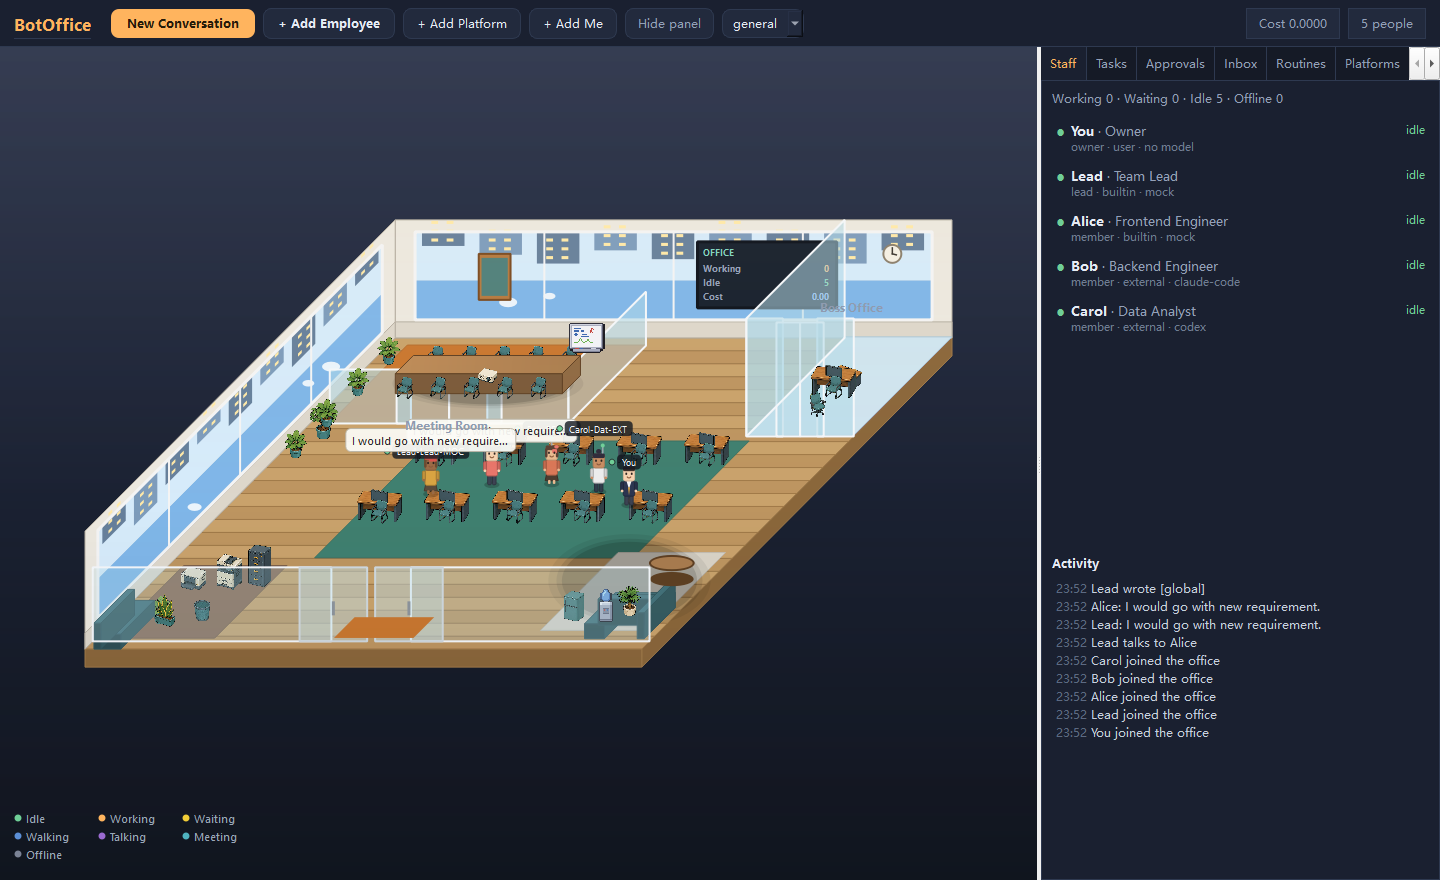
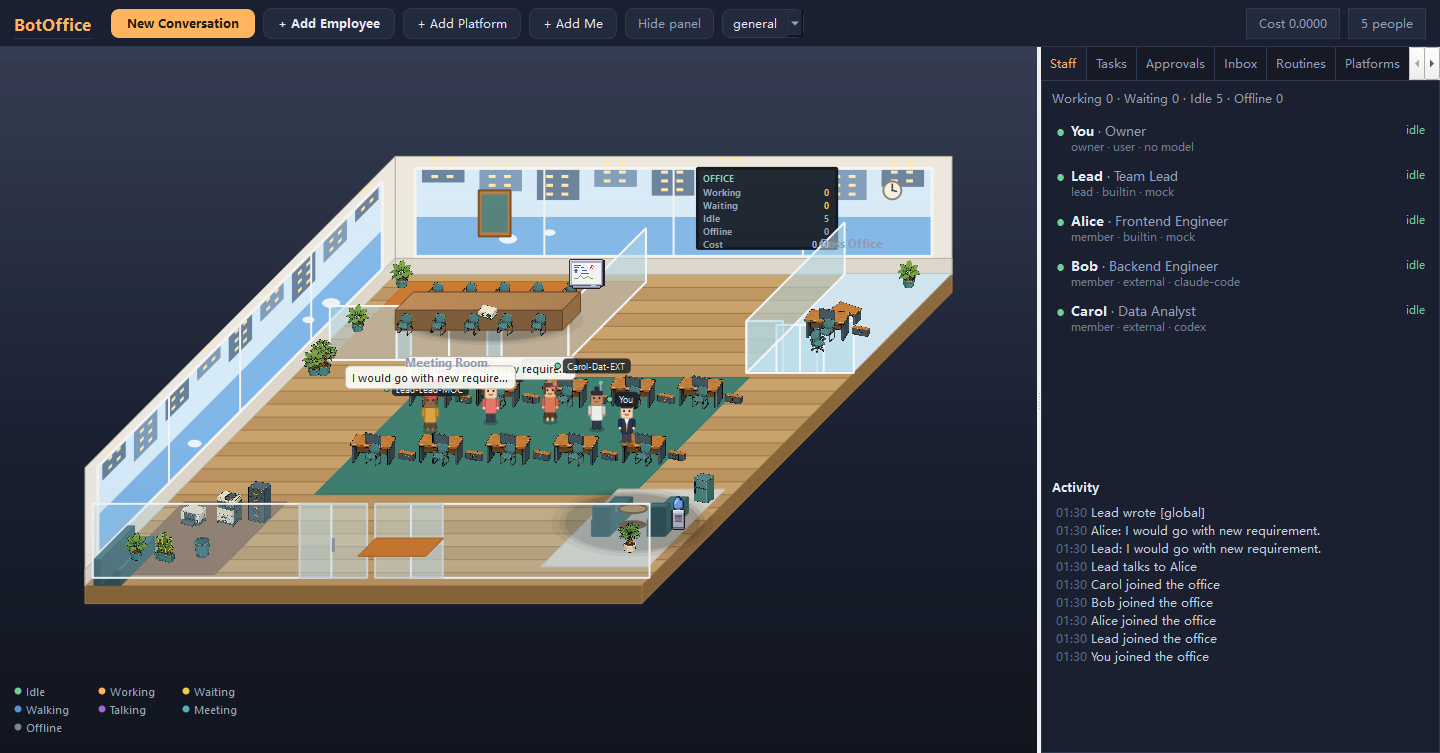
Keep the wall board in step with the staff panel and fix the layout
The board only refreshed on a status poll, so it disagreed with the staff
panel the moment an agent changed state. It now recomputes from the scene on
every state change, and shows waiting and offline as well.

Layout fixes from the review: chairs seat lower with a filing cabinet beside
every desk, the boss office glass returns to the height used everywhere else,
the pantry gets facing booth seats with a fridge and cooler against the wall,
the entrance mat no longer sits on the glass, and the plants are spaced
along the back wall.

diff --git a/botoffice/gui/scene.py b/botoffice/gui/scene.py
@@ -551,9 +551,11 @@ class OfficeScene:
         self._sprite(painter, "plant_snake", x0 + 3.0, z1 - 1.6, 1.2)
         self._draw_picture(painter, "z", x0 + 4.2, x0 + 5.8, z0)
 
-        # Plants in a row along the left wall, spaced out.
-        for index in range(4):
-            self._draw_plant(painter, x0 + 1.1, z0 + 2.2 + index * 2.4)
+        # Plants along the back wall and in the corners, spaced out.
+        for offset in (0.0, 3.4, 6.8):
+            self._draw_plant(painter, x0 + 1.1, z0 + 1.2 + offset)
+        self._draw_plant(painter, x1 - 1.4, z0 + 1.2)
+        self._draw_plant(painter, x0 + 1.4, z1 - 1.8)
 
     def _draw_meeting_room(self, painter: QPainter, zone: dict) -> None:
         """A long table with five chairs down each side, behind glass walls."""
@@ -631,8 +633,8 @@ class OfficeScene:
 
         # Mat on the floor.
         painter.setBrush(QBrush(QColor("#c9772f")))
-        painter.setPen(Qt.NoPen)
-        painter.drawPolygon(self._quad(ex - 2.0, ez - 1.8, 4.0, 1.6, 0.8))
+        painter.setPen(QPen(QColor("#a05f22"), 1))
+        painter.drawPolygon(self._quad(ex - 1.7, ez - 3.0, 3.4, 1.4, 0.8))
 
     # ------------------------------------------------------------ geometry
 
@@ -787,9 +789,11 @@ class OfficeScene:
         self._sprite(painter, "plant_snake", x0 + 3.0, z1 - 1.6, 1.2)
         self._draw_picture(painter, "z", x0 + 4.2, x0 + 5.8, z0)
 
-        # Plants in a row along the left wall, spaced out.
-        for index in range(4):
-            self._draw_plant(painter, x0 + 1.1, z0 + 2.2 + index * 2.4)
+        # Plants along the back wall and in the corners, spaced out.
+        for offset in (0.0, 3.4, 6.8):
+            self._draw_plant(painter, x0 + 1.1, z0 + 1.2 + offset)
+        self._draw_plant(painter, x1 - 1.4, z0 + 1.2)
+        self._draw_plant(painter, x0 + 1.4, z1 - 1.8)
 
     def _draw_meeting_room(self, painter: QPainter, zone: dict) -> None:
         """A long table with five chairs down each side, behind glass walls."""
@@ -953,7 +957,7 @@ class OfficeScene:
     def _draw_digital_board(self, painter: QPainter, wall: str, a: float, b: float,
                             coord: float) -> None:
         """A wall screen showing the office numbers."""
-        panel = self._wall_quad(wall, a, b, coord, 30, 96)
+        panel = self._wall_quad(wall, a, b, coord, 26, 106)
         painter.setBrush(QBrush(QColor("#161f2c")))
         painter.setPen(QPen(QColor("#0c121b"), 3))
         painter.drawPolygon(panel)
@@ -971,10 +975,12 @@ class OfficeScene:
                          Qt.AlignLeft | Qt.AlignVCenter, "OFFICE")
         rows = (
             ("Working", str(self.stats.get("working", 0)), QColor("#ffb45e")),
+            ("Waiting", str(self.stats.get("waiting", 0)), QColor("#f2cd37")),
             ("Idle", str(self.stats.get("idle", 0)), QColor("#6fcf97")),
+            ("Offline", str(self.stats.get("offline", 0)), QColor("#93a0b8")),
             ("Cost", f"{self.stats.get('cost', 0):.2f}", QColor("#8ab4f8")),
         )
-        y = rect.top() + 20
+        y = rect.top() + 18
         for label, value, color in rows:
             painter.setPen(QPen(QColor("#93a0b8")))
             painter.drawText(QRectF(rect.left() + 6, y, rect.width() * 0.6, 12),
@@ -983,7 +989,7 @@ class OfficeScene:
             painter.drawText(QRectF(rect.left() + rect.width() * 0.5, y,
                                     rect.width() * 0.45, 12),
                              Qt.AlignRight | Qt.AlignVCenter, value)
-            y += 14
+            y += 13
         painter.restore()
 
     def _draw_poster(self, painter: QPainter, wall: str, a: float, b: float,
@@ -1094,25 +1100,27 @@ class OfficeScene:
     # ----------------------------------------------------------- furniture
 
     def _draw_kitchen(self, painter: QPainter, x: float, z: float) -> None:
-        """The pantry: an L-shaped sofa, a round table, fridge and cooler."""
-        self._shadow(painter, x + 1.6, z + 1.6, 3.4, 3.0)
-        self._box(painter, x + 2.2, z + 3.6, 3.0, 1.0, 15, SOFA, SOFA_DARK)
-        self._box(painter, x + 2.2, z + 3.6, 1.0, 2.4, 15, SOFA, SOFA_DARK)
-        self._box(painter, x + 2.2, z + 4.6, 3.0, 0.35, 26, SOFA, SOFA_DARK)
-        self._box(painter, x + 4.85, z + 3.6, 0.35, 2.4, 26, SOFA, SOFA_DARK)
+        """The pantry: two facing booth seats with a table between them."""
+        self._shadow(painter, x + 2.0, z + 2.0, 3.4, 2.2)
+        # Booth seats facing each other across the table.
+        self._box(painter, x + 0.6, z + 1.2, 0.9, 1.8, 16, SOFA, SOFA_DARK)
+        self._box(painter, x + 0.6, z + 2.6, 0.9, 0.3, 28, SOFA, SOFA_DARK)
+        self._box(painter, x + 3.4, z + 1.2, 0.9, 1.8, 16, SOFA, SOFA_DARK)
+        self._box(painter, x + 3.4, z + 2.6, 0.9, 0.3, 28, SOFA, SOFA_DARK)
 
-        # Round table in the middle of the sofa corner.
-        centre = self.to_screen(x + 3.6, z + 1.4, 16)
+        # Round table in the middle of the booth.
+        centre = self.to_screen(x + 2.1, z + 2.1, 16)
         painter.setBrush(QBrush(DESK_LEG))
         painter.setPen(Qt.NoPen)
         painter.drawEllipse(QPointF(centre.x(), centre.y() + 16),
-                            1.1 * self.tile_w, 0.55 * self.tile_h)
+                            0.7 * self.tile_w, 0.35 * self.tile_h)
         painter.setBrush(QBrush(TABLE))
         painter.setPen(QPen(DESK_LEG, 2))
-        painter.drawEllipse(centre, 1.1 * self.tile_w, 0.55 * self.tile_h)
+        painter.drawEllipse(centre, 0.7 * self.tile_w, 0.35 * self.tile_h)
 
-        self._sprite(painter, "fridge", x + 0.9, z + 4.8, 1.2)
-        self._sprite(painter, "cooler", x + 2.5, z + 4.8, 0.9)
+        # Fridge and cooler against the far wall.
+        self._sprite(painter, "fridge", x + 4.7, z + 0.6, 1.2)
+        self._sprite(painter, "cooler", x + 4.7, z + 2.6, 0.9)
 
     def _draw_water_cooler(self, painter: QPainter, x: float, z: float) -> None:
         if self._sprite(painter, "cooler", x, z, 0.9):
@@ -1170,7 +1178,7 @@ class OfficeScene:
         painter.setPen(QPen(QColor("#a9c6d6"), 1))
         painter.drawPolygon(self._quad(x, z, w, d, 1.0))
 
-        height = WALL_H
+        height = 52.0
         # Front wall with a pair of sliding doors.
         self._sliding_doors(painter, x, z + d, w, height)
         # Left wall; the back is the building's own wall.
@@ -1248,15 +1256,18 @@ class OfficeScene:
             self._draw_desk(painter, item.x, item.z, item.owner)
 
     def _draw_desk(self, painter: QPainter, x: float, z: float, owner: str) -> None:
-        if self._sprite(painter, "desk", x, z + 0.45, 2.6):
+        # A filing cabinet sits beside every workstation.
+        self._sprite(painter, "cabinet", x + 1.4, z + 0.5, 1.0)
+
+        if self._sprite(painter, "desk", x, z + 0.95, 2.6):
             desk_pixmap = self.sprites.get("desk")
-            base = self.to_screen(x, z + 0.45)
+            base = self.to_screen(x, z + 0.95)
             if desk_pixmap is not None:
                 target_w = 2.6 * self.tile_w
                 target_h = desk_pixmap.height() * (target_w / desk_pixmap.width())
                 surface = base.y() - target_h * 0.48
                 self._sprite_at(painter, "monitor", base.x(), surface, 0.95)
-            self._sprite(painter, "chair_visitor", x, z + 0.45, 1.0)
+            self._sprite(painter, "chair_visitor", x, z + 0.95, 1.0)
             return
         self._shadow(painter, x, z + 0.2, 2.2, 1.6)
 

diff --git a/botoffice/gui/main_window.py b/botoffice/gui/main_window.py
@@ -331,6 +331,7 @@ class MainWindow(QMainWindow):
         self.activity_lines: list[tuple[str, str]] = []
         self.selected_agent: str | None = None
         self.current_team: str | None = None
+        self.last_total_cost: float = 0.0
         self.selected_group: str = ""
 
         self._build_ui()
@@ -1223,11 +1224,25 @@ class MainWindow(QMainWindow):
         for role_id in list(self.scene_widget.scene.avatars):
             if not any(r["id"] == role_id for r in self.roles):
                 self.scene_widget.scene.remove_avatar(role_id)
-        states = [avatar.state for avatar in self.scene_widget.scene.avatars.values()]
+        self.last_total_cost = float(status.get("total_cost", 0))
+        self.refresh_stats()
+        self.scene_widget.update()
+
+    def refresh_stats(self) -> None:
+        """Keep the wall board in step with the scene.
+
+        The staff panel refreshes on every state change, so the board has to
+        as well, otherwise the two disagree while an agent works.
+        """
+        states = [
+            avatar.state for avatar in self.scene_widget.scene.avatars.values()
+        ]
         self.scene_widget.scene.set_stats({
             "working": sum(1 for state in states if state in ACTIVE_STATES),
+            "waiting": sum(1 for state in states if state == "waiting"),
             "idle": sum(1 for state in states if state == "idle"),
-            "cost": float(status.get("total_cost", 0)),
+            "offline": sum(1 for state in states if state == "offline"),
+            "cost": self.last_total_cost,
         })
         self.scene_widget.update()
 

diff --git a/scripts/demo_snapshot.py b/scripts/demo_snapshot.py
@@ -90,6 +90,8 @@ def main() -> int:
             avatar.bubble_until = time.time() + 6
         elif event_type == "agent.state" and agent_id in scene.avatars:
             scene.avatars[agent_id].state = event.get("state", "idle")
+            window.refresh_staff()
+            window.refresh_stats()
         elif event_type in ("task.created", "task.assigned", "interact.started", "interact.ended"):
             window.refresh_board()
 

diff --git a/botoffice/gui/app.py b/botoffice/gui/app.py
@@ -176,6 +176,7 @@ def main() -> int:
         elif event_type == "agent.state" and agent_id in scene.avatars:
             scene.avatars[agent_id].state = event.get("state", "idle")
             window.refresh_staff()
+            window.refresh_stats()
         elif event_type == "agent.tool_call":
             window.refresh_tool_chips()
         elif event_type == "employee.hired":
